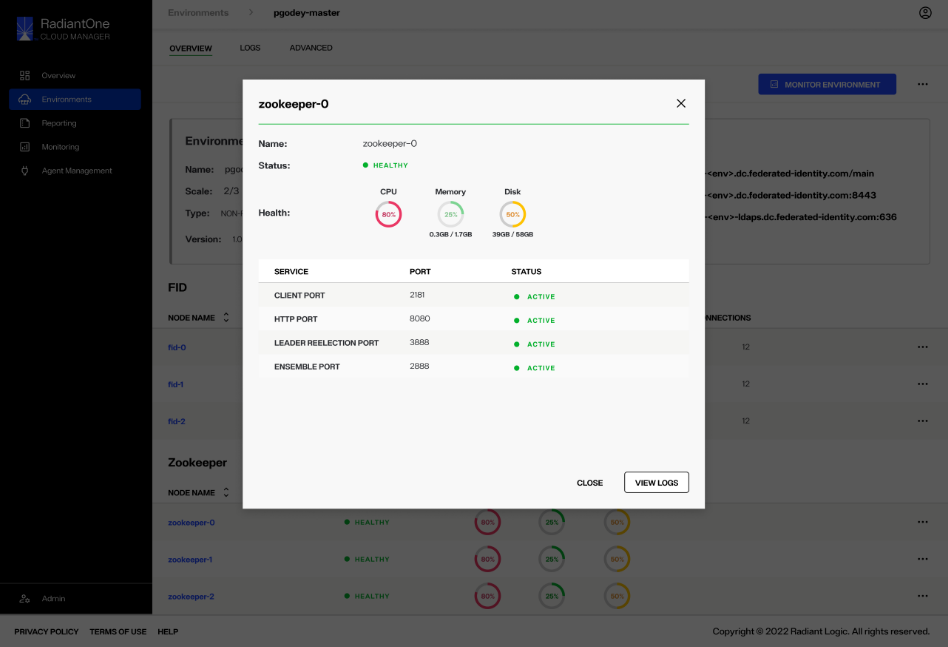
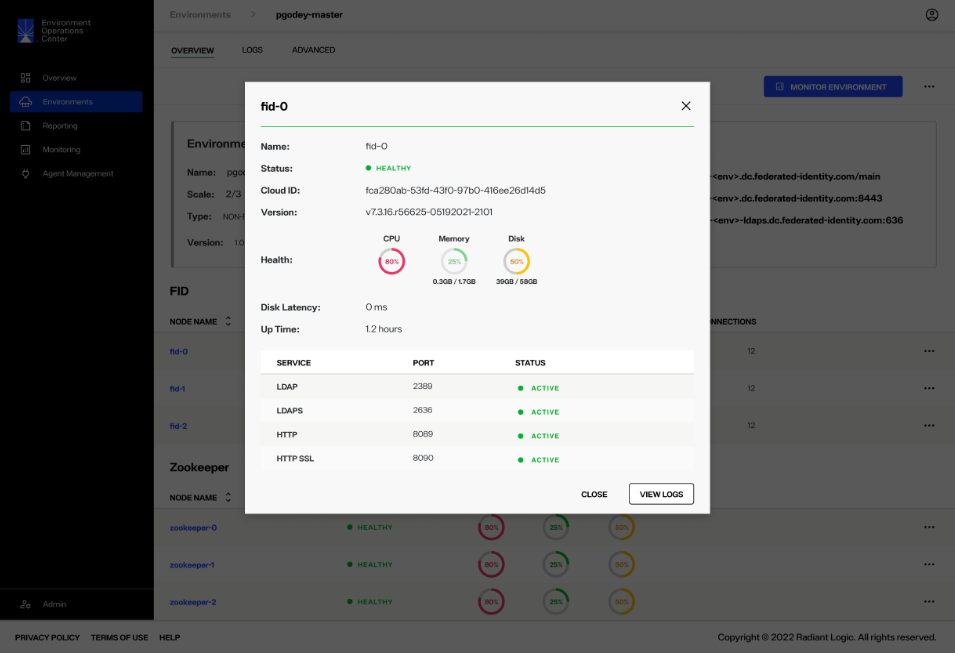
adjusted notes for RL review

diff --git a/documentation/cloud-manager-guide/environments/environment-details/node-details.md b/documentation/cloud-manager-guide/environments/environment-details/node-details.md
@@ -5,7 +5,7 @@ description: Guide to review and monitor node status
 ---
 # Monitor Node Health of an Environment
 
-This guide outlines the steps required to monitor the status details for a specific node. The *Overview* tab provides a high-level view of all FID and Zookeeper node statuses for quick monitoring of cluster health. Each individual node also has a detailed view that provides further information on the status and health of a given node. The details provided for FID nodes versus Zookeeper nodes are slightly different and are outlined within this guide.
+This guide outlines the steps required to monitor the status details for a specific node. The *Overview* tab provides a high-level view of all FID and Zookeeper node statuses for quick monitoring of cluster health. Each individual node has a detailed view that provides further information on the status and health of a given node. The details provided for FID nodes versus Zookeeper nodes are slightly different and are outlined within this guide.
 
 ## View node details
 
@@ -21,41 +21,47 @@ Alternatively, you can select the **Options** (**...**) menu located in the node
 
 ### FID node details
 
-The FID node details dialog provides the following information for the selected node (**waiting for definitions from RL**):
+The FID node details dialog provides the following information for the selected node:
 
-- Name:
-- Status:
+> **(RL Question: Definitions required for Cloud ID, Version (is there something appended to the version number?), Disk Latency, Up Time, Services (are these the same as endpoints?))**
+
+- Name: The name assigned to the specific FID node.
+- Status: Indicates if the node is operational, experiencing a partial outage, or experiencing a full outage. Displays as "Healthy", "Warning", or "Outage".
 - Cloud ID:
-- Version
-- Health:
+- Version: 
+- Health: The status of the CPU and quantity used of memory and disk space.
 - Disk Latency:
-- Up Time
-- Connections??
+- Up Time:
+- Services/Endpoints??
 
 ![image description](images/node-fid-details.png)
 
-To view the log details of the chosen node, select **View Logs**. This takes you to.... (**waiting for confirmation from RL**).
+### Zookeeper node details
+
+The Zookeeper node details dialog provides the following information for the selected node:
+
+> **(RL Question: Services (are these the same as endpoints?))**
+
+- Name: The name assigned to the specific Zookeeper node.
+- Status: Indicates if the node is operational, experiencing a partial outage, or experiencing a full outage. Displays as "Healthy", "Warning", or "Outage".
+- Health: The status of the CPU and quantity used of memory and disk space.
+- Services/Endpoints??
+
+![image description](images/node-zookeeper-details.png)
+
+## View node logs
+
+Each node has associated log files that contain further information about the node's health and status alerts. The log files for a specific node can be accessed from the node details dialog or from the **Options** (**...**) dropdown of a node.
+
+To access log files from a node's details dialog, select **View Logs** in the dialog. The **View Logs** button is available in the details dialog for both FID and Zookeeper nodes.
 
 Select **Close** to exit the node details dialog.
 
 ![image description](images/node-fid-logs.png)
 
-### Zookeeper node details
+Alternatively, the log files of a node can be accessed by selecting **View Logs** from the associated **Options** (**menu**).
 
-The Zookeeper node details dialog provides the following information for the selected node (**waiting for definitions from RL**):
-
-- Name:
-- Status:
-- Health:
-- Connections??
-
-![image description](images/node-zookeeper-details.png)
-
-To view the log details of the chosen node, select **View Logs**. This takes you to.... (**waiting for confirmation from RL**).
-
-Select **Close** to exit the node details dialog.
-
-![image description](images/node-zookeeper-logs.png)
+![image description](images/node-view-logs.png)
 
 ## Next steps
 

diff --git a/documentation/cloud-manager-guide/reporting/report-types.md b/documentation/cloud-manager-guide/reporting/report-types.md
@@ -1,9 +1,74 @@
 ---
 keywords:
-title: Report Types
+title: Types of Reports
 description: Report types
 ---
-# Report types
+# Types of Reports
 
 **This page is a WIP**
+
+Several types of reports can be generated to help monitor the activities and operations in Environment Operations Center.
+
+Every time any application or client accesses the server, that data is logged anc captured in Elastic Search.
+
+The reporting dashboards displayed in Environment Operation Center are a representation of the log monitoring user interface available in Kibana.
+
+Logs can be searched or filtered for particular events or activities.
+
+## Access reports
+
+Data is pulled from the Access Logs to build access reports. Information provided by these logs includes client requests to RadiantOne and the response.
+
+Info includes:
+how long operations run and a summary of associated error codes.
+
+- Types of operations - listed below
+- Response time intervals - how long operations are taking to finish
+- Response time thresholds - list operations that exceed a specified response time; measured against the specified maximum amount of time that a response should not exceed.
+- Error codes - specify error codes of concern to track.
+
+Operation settings tracked:
+
+- connections
+- bind: LDAP bind (authentication) requests received by RadiantOne.
+- search: Search (base search, one level search, sub-tree search) requests received by RadiantOne.
+- add: Add entry requests received by RadiantOne.
+- modify: Update entry requests received by RadiantOne.
+- compare: Compare requests received by RadiantOne.
+- delete: Delete requests received by RadiantOne.
+
+The response time interval, response time threshold, and error codes are reported for each type of operation listed above.
+
+## Audit reports
+
+Lists operations performed by a user including the number of times the type of operation was performed.
+
+> **Note:** "If RadiantOne is deployed in a cluster, the default behavior of the Audit Report generator is to create a report for each node."
+
+Audit reports provide a summary of all operations performed by a user during a specific session.
+
+Session information, user details, operations performed by the user, total number of times each type of operation was performed.
+
+Monitor which users are accessing the RadiantOne service, when, and what operations they perform.
+
+Displays the following operations (same definitions as Access report operations):
+
+- Connections by Host
+- Operations Count across the entire cluster
+- Result Codes per server
+- Connections made by different users
+- Add Requests
+- Search Requests
+- Modify Requests
+- Bind Requests
+- Delete
+
+## Group Audit report
+
+Similar metrics provided as the Audit Report, except the Group Audit Report organizes user activity by groups.
+
+This report lists all operations performed, grouped by user, for a specific session.
+
+## Next steps
+
 

diff --git a/documentation/cloud-manager-guide/environments/environment-overview/create-an-environment.md b/documentation/cloud-manager-guide/environments/environment-overview/create-an-environment.md
@@ -7,7 +7,9 @@ description: Guide to create a new environment
 
 This guide provides an overview of the steps required to create a new environment in Environment Operations Center.
 
-An environment is where a Radiant One product lives. Each environment is completely isolated and contains endpoints to access different applications. Each instance of Environment Operations Center can have only one production environment, but several environments can be created for development, quality assurance, and staging purposes. **(RL to confirm max number of envs that can be created)**.
+An environment is where a Radiant One product lives. Each environment is completely isolated and contains endpoints to access different applications. Each instance of Environment Operations Center can have only one production environment, but several environments can be created for development, quality assurance, and staging purposes. 
+
+> **(RL to confirm max number of non-production environments that can be created)**.
 
 ## Getting Started
 
@@ -51,7 +53,9 @@ To set the **Environment Tier**, select either the Tier 1 or Tier 2 card.
 
 ![image description](images/env-tier-selected.png)
 
-To view further details of a tier, select **View More** to expand the tier card. Select **View Less** to collapse the card **(Tier outlines require definitions from Prashanth)**.
+To view further details of a tier, select **View More** to expand the tier card. Select **View Less** to collapse the card.
+
+> **(RL Question: Should we include a note about who they should contact/how they go about upgrading their tier subscription??)**
 
 ![image description](images/expand-tier-card.png)
 
@@ -115,7 +119,9 @@ Next, choose the type of configuration you would like to upload by selecting eit
 
 - The **Upload Configuration Artifact** option allows you to upload a configuration ZIP file from an external environment.
 
-- The **Install Samples** option allows you to upload pre-configured samples **(requested explanation from RL for what samples are and what happens when install samples option is chosen)**
+- The **Install Samples** option allows you to upload pre-configured samples 
+
+> **(Requested explanation from RL for what samples are and what happens when "install samples" option is selected)**
 
 ![image description](images/advanced-upload-type.png)
 

diff --git a/documentation/cloud-manager-guide/environments/environment-details/environment-overview.md b/documentation/cloud-manager-guide/environments/environment-details/environment-overview.md
@@ -58,7 +58,7 @@ To learn how to import a configuration file, review the [import a configuration 
 
 Under the *Activity Log*, you can view a list of all actions performed on an environment. Each action has a corresponding time and date stamp of when it was performed and the user who performed the action is also listed.
 
-**Confirming with Prashanth if titles are static or can be used for navigation/actions**
+> **(RL QUESTION: Are the listed actions "clickable" or static? If they are "clickable", what is displayed when one is selected??)**
 
 ![image description](images/overvieew-activitylog-tab.png)
 
@@ -112,7 +112,7 @@ See the guide on [version history](version-history.md) for further details on re
 
 The *Application Endpoints* section lists all of the environment endpoints.
 
-(**Waiting on further info from Prashanth for endpoint details**).
+> **(RL Question: Are there further details that should be outlined in this section regarding Application Endpoints that would be helpful for a user to know?).**
 
 ![image description](images/overview-endpoints.png)
 
@@ -120,11 +120,9 @@ The *Application Endpoints* section lists all of the environment endpoints.
 
 The lower section of the *Overview* page displays monitoring sections for the FID and Zookeeper nodes of an environment. For both FID and Zookeeper nodes, the status, CPU, memory, and disk space are provided for each node. The number of connections are listed for all FID nodes.
 
+Node status will be listed as "Healthy", "Warning, or "Outage", indicating that the node is either operational, experiencing a partial outage, or experiencing a complete outage.
+
 ![image description](images/overview-node-monitoring.png)
-
-Node status will be listed as "Healthy", "Warning, or "Outage".
-
-(**note what each status means**)
 
 CPU, memory, and disk are all displayed as color-coded percentages to indicate their health.
 

diff --git a/documentation/cloud-manager-guide/environments/environment-details/version-history.md b/documentation/cloud-manager-guide/environments/environment-details/version-history.md
@@ -5,7 +5,9 @@ description: Guide to view and revert to an environment's version history
 ---
 # Individual Environment Version History
 
-Environment Operations Center maintains a chronological record of all updates applied to each environment. This allows you to review previous updates and revert to an earlier version of the environment if required.
+Environment Operations Center maintains a chronological record of all updates applied to each environment. This allows you to review previous updates and revert to an earlier version of the environment if required. 
+
+This guide outlines the steps to review the version history of an environment. For details on restoring an environment to a previous version, see the [restore an environment backup](../backup-and-restore/restore-backup.md) guide.
 
 ## View version history
 
@@ -29,11 +31,7 @@ Environment version updates will be clearly labeled with "Updated environment ve
 
 ![image description](images/version-activitylog.png)
 
-## Restore a previous update
-
-**This workflow is being confirmed with RL**
-
 ## Next steps
 
-After reading this guide you should be able to review an environment's version history from the *Version History* dialog or from the *Activity Log*. You should also have an understanding of the steps required to restore a previous environment update. For information on monitoring node statuses, see the guide on [node details](node-details.md).
+After reading this guide you should be able to review an environment's version history from the *Version History* dialog or from the *Activity Log*. For information on monitoring node statuses, see the guide on [node details](node-details.md).
 

diff --git a/documentation/cloud-manager-guide/environments/environment-overview/environments-overview.md b/documentation/cloud-manager-guide/environments/environment-overview/environments-overview.md
@@ -54,7 +54,7 @@ The environment **Status** indicates the current state of the environment. Statu
 
 ## Environment version
 
-**Version** indicates the current version of the environment. The version number is set by the environment administrator during environment setup. If the version number no longer matches the current version of Environment Operations Center **(confirming this behavior with Prashanth)**, an "Update Now" notification is displayed next to the version number prompting you to update the environment. 
+**Version** indicates the current version of the environment. The version number is set by the environment administrator during environment setup. If the environment version number no longer matches the current available version of Environment Operations Center, an "Update Now" notification is displayed next to the version number prompting you to update the environment. 
 
 To learn more about updating an environment, review the [update an environment](update-an-environment.md) guide.
 
@@ -78,7 +78,7 @@ The **New Environment** button allows you to quickly start creating a new enviro
 
 ![image description](images/new-env-button.png)
 
-## Read-only access
+## Access Permissions
 
 Depending on your role, your administrator may set your access permissions to read-only for certain environments. If you have read-only access:
 

diff --git a/documentation/cloud-manager-guide/environments/logging/environment-logs.md b/documentation/cloud-manager-guide/environments/logging/environment-logs.md
@@ -5,7 +5,7 @@ description: Reviewing environment logs
 ---
 # Environment Logs
 
-This guide outlines the steps to review logs for a specific environment. The Environment Operations Center is connected to Elastic, allowing you to review environment logs directly in Environment Operations Center without navigating away from the application.
+This guide outlines the steps to review logs for a specific environment. Environment Operations Center is connected to Elastic, allowing you to review environment logs directly in Env Ops Center without navigating away from the application.
 
 ## Getting started
 

diff --git a/documentation/cloud-manager-guide/environments/environment-details/export-configuration-file.md b/documentation/cloud-manager-guide/environments/environment-details/export-configuration-file.md
@@ -29,7 +29,9 @@ The environment configuration ZIP file will download directly to your system.
 
 ![image description](images/export-success.png)
 
-If the export is not successful, you will receive an error message.... (**need RL to confirm error codes and resolutions**)
+If the export is not successful, you will receive an error message... 
+
+> **(RL to confirm error codes and resolution steps for all EOC errors)**
 
 **image of export error**
 
